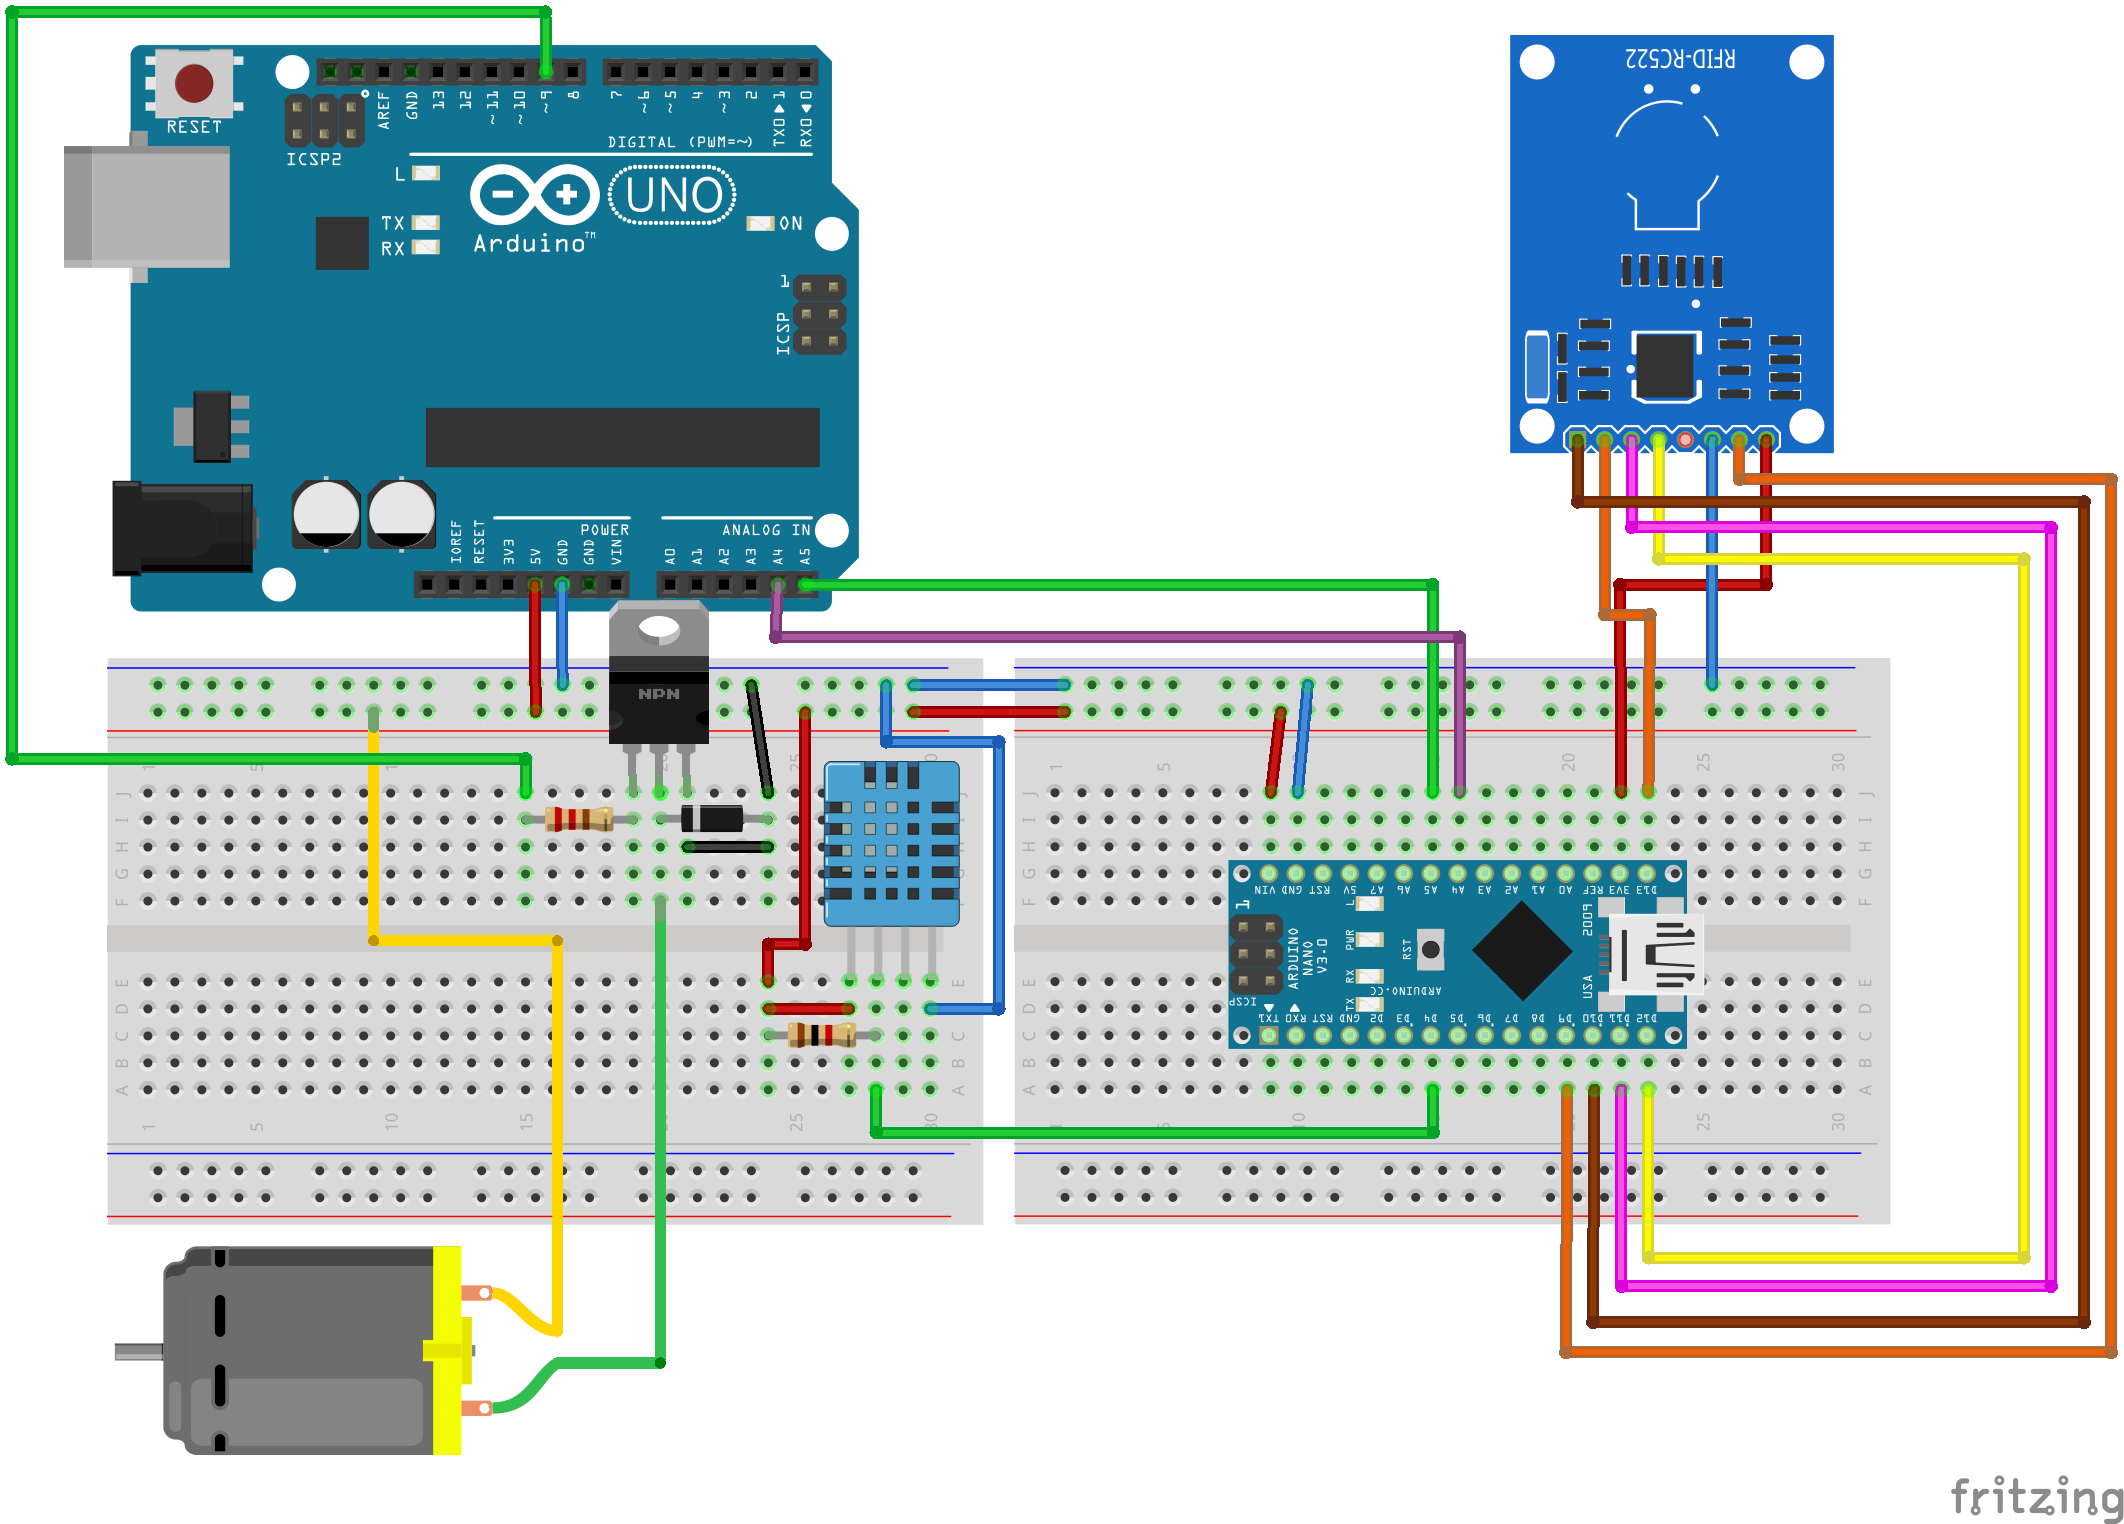
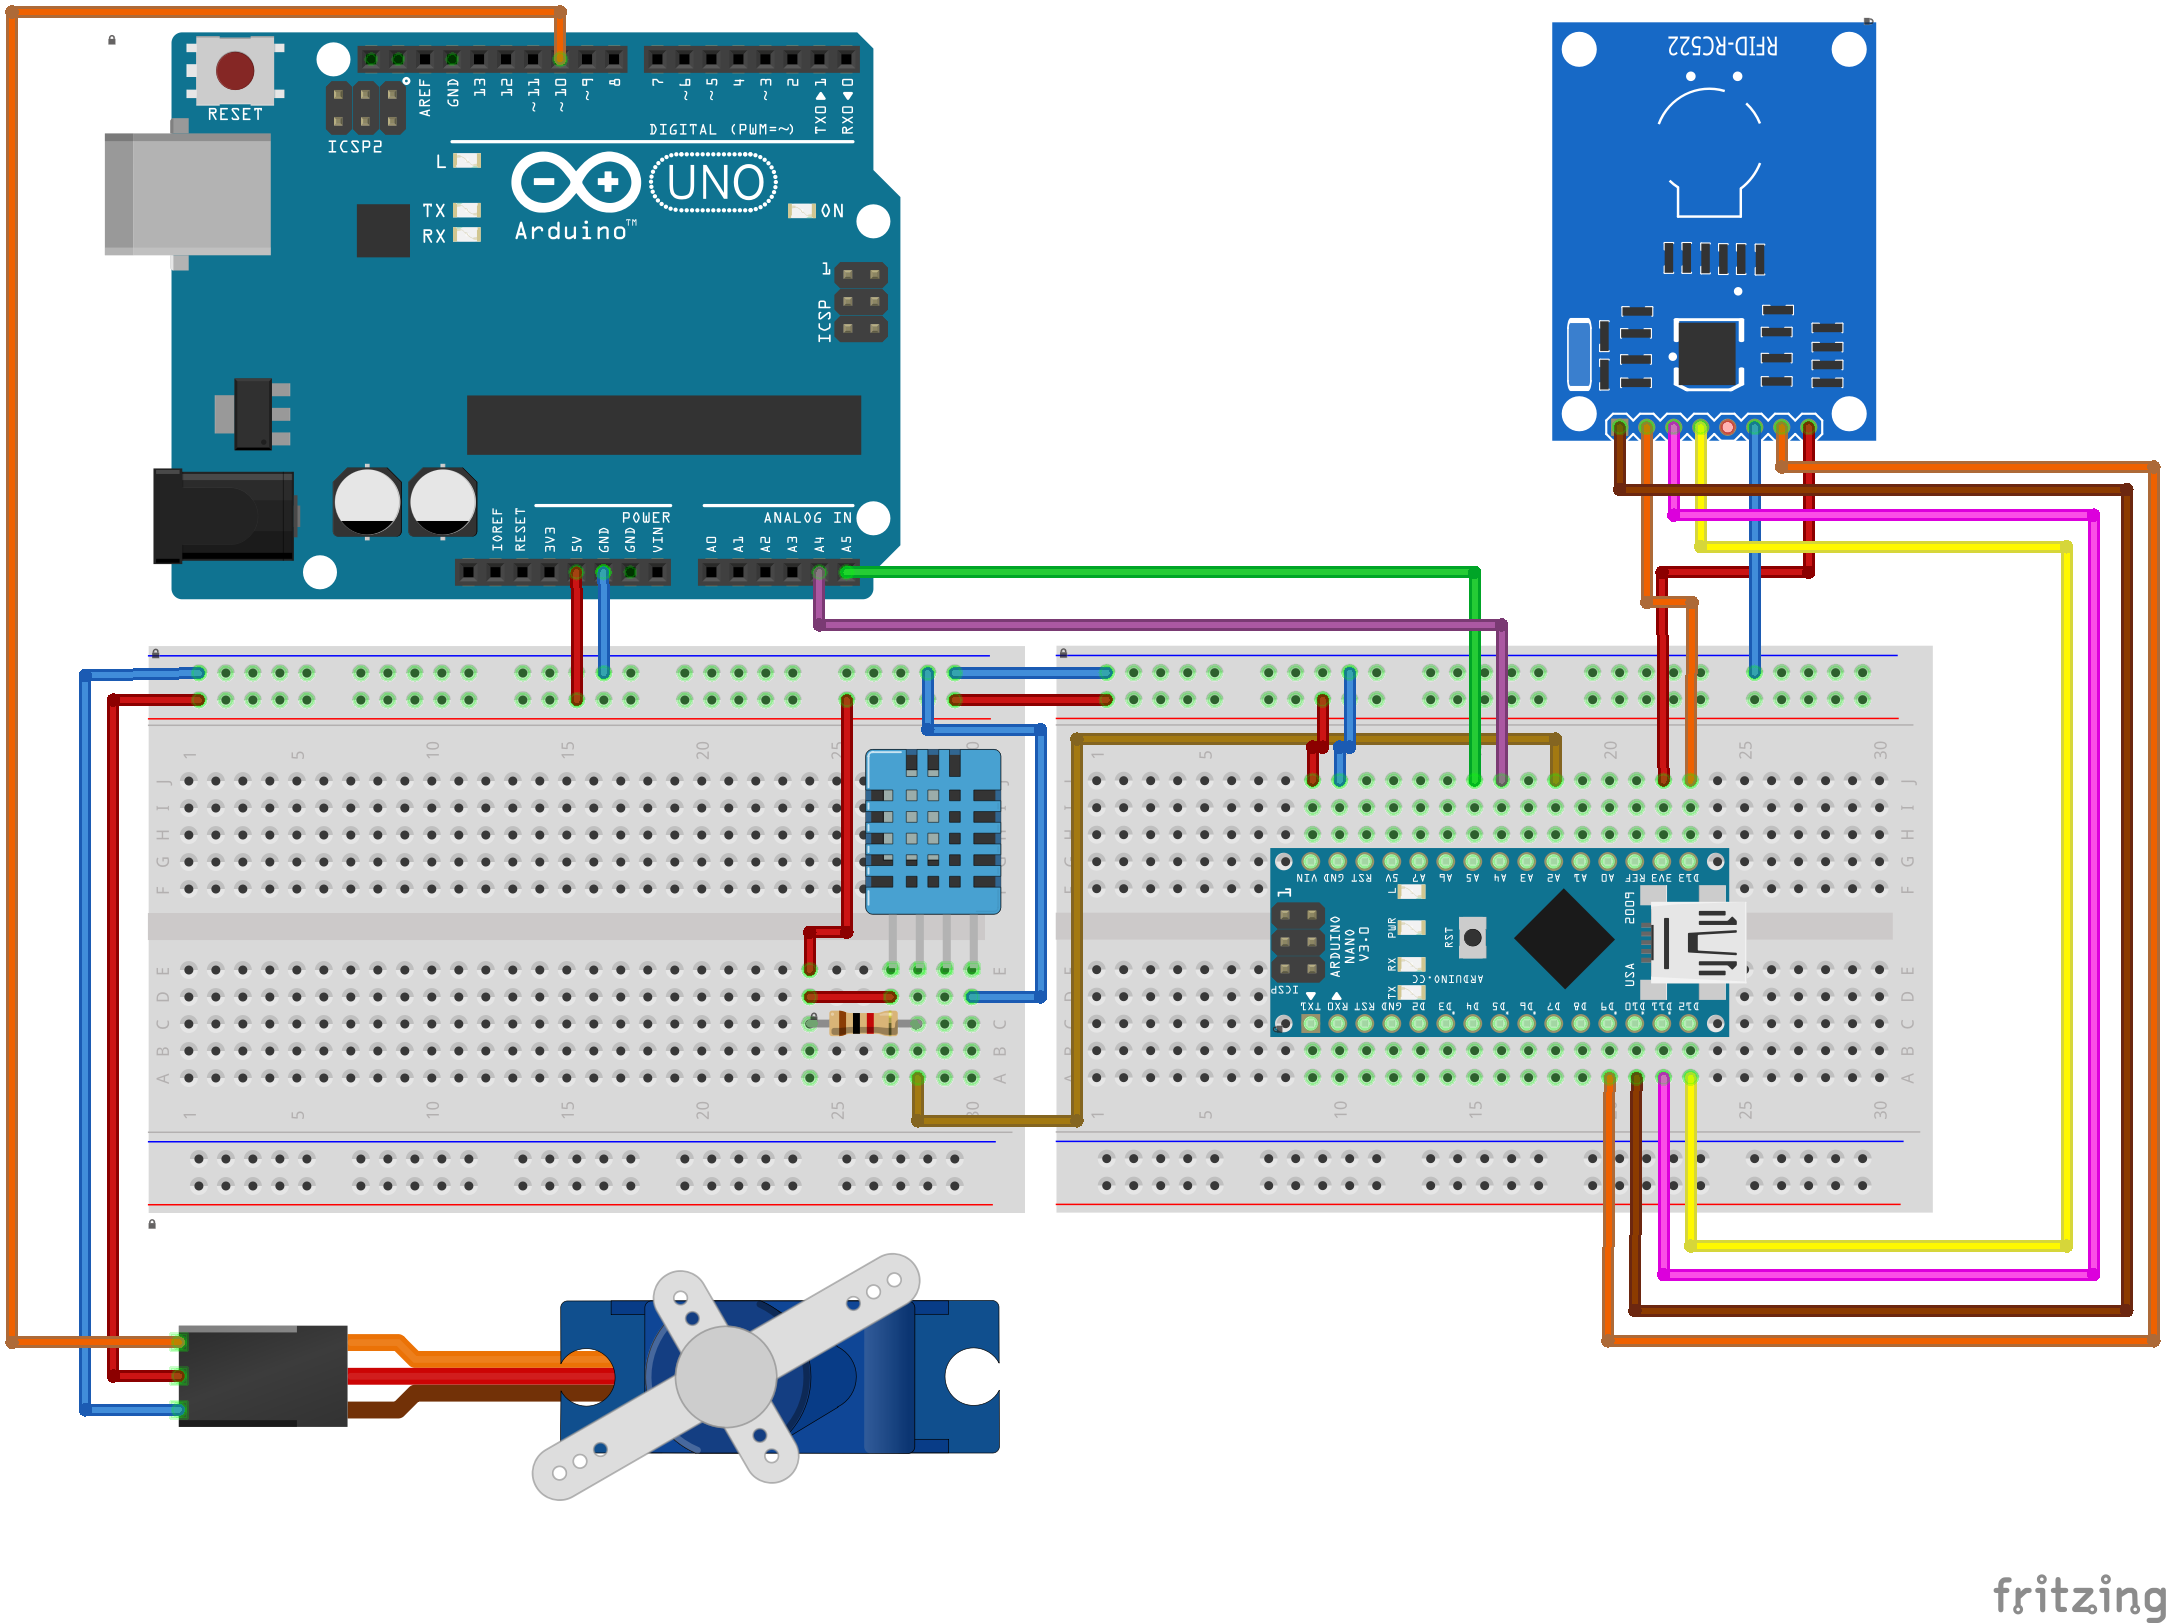
Atualiza o board e o codigo do servidor

diff --git a/server/index.js b/server/index.js
@@ -9,15 +9,7 @@ const io = socketIo(httpServer);
 
 let lastValue = '';
 
-io.on('connection', function (socket) {
-  updateClients(lastValue);
-
-  socket.on('message', (m) => {
-    socket.emit('message', { message: 'How Are You?' });
-  });
-});
-
-var port = process.env.PORT || 3000;
+const port = process.env.PORT || 3000;
 
 httpServer.listen(port, () => console.log('listening in http://localhost:' + port));
 
@@ -31,28 +23,36 @@ const bytesToString = (bytes) => {
     .map((code) => String.fromCharCode(code))
     .join('')
     .replace(/^[\s\uFEFF\xA0]+|[\s\uFEFF\xA0]+$/g, '');
-  };
-
-const updateClients = (value) => {
-  let list = value.split('|');
-
-  if (list[0]) {
-    io.emit('rfid', list[0]);
-
-    io.emit('access', list[0] === '20:41:C2:80');
-  }
-
-  if (list[1]) {
-    io.emit('humidity', Number(list[1]));
-  }
-
-  if (list[2]) {
-    io.emit('temperature', Number(list[2]));
-  }
 };
 
 board.on('ready', function () {
+  const servo = new five.Servo(10);
   this.i2cConfig();
+
+  const updateClients = (value) => {
+    let list = value.split('|');
+
+    if (list[0]) {
+      io.emit('rfid', list[0]);
+
+      if (list[0] === '20:41:C2:80') {
+        io.emit('access', true);
+        servo.center();
+        setTimeout(() => servo.min(), 5000);
+      } else {
+        io.emit('access', false);
+        servo.min();
+      }
+    }
+
+    if (list[1]) {
+      io.emit('humidity', Number(list[1]));
+    }
+
+    if (list[2]) {
+      io.emit('temperature', Number(list[2]));
+    }
+  };
 
   const onChange = (bytes, value) => {
     if (value != lastValue) {
@@ -67,5 +67,15 @@ board.on('ready', function () {
   this.i2cRead(0x08, 0x00, 32, (bytes) => {
     let value = bytesToString(bytes);
     if (value) onChange(bytes, value);
+  });
+
+  servo.min();
+
+  io.on('connection', (socket) => {
+    updateClients(lastValue);
+
+    socket.on('message', (m) => {
+      socket.emit('message', { message: 'How Are You?' });
+    });
   });
 });
